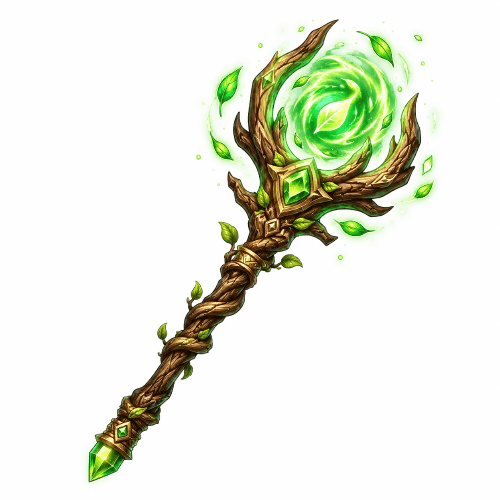
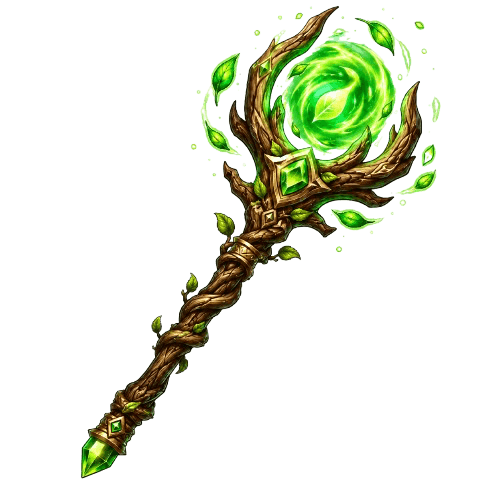
Add files via upload

Changed region(s): [[0.15, 0.0, 0.9, 0.96]]

diff --git a/Awakening_Lobby/doll.html b/Awakening_Lobby/doll.html
@@ -37,13 +37,13 @@
         }
 
         /* 📍 7 大神裝在角色圖上的「精準定位掛鉤」 */
-        #equip_badge    { top: 22%; left: 18%; width: 20%; } 
+        #equip_badge    { top: 22%; left: 18%; width: 15%; } 
         #equip_shield   { top: 38%; right: 5%; width: 32%; }  
-        #equip_backpack { top: 30%; left: -5%; width: 35%; z-index: 0; } 
+        #equip_backpack { top: 30%; left: -5%; width: 30%; z-index: 0; } 
         #equip_map      { bottom: 5%; left: 8%; width: 28%; }  
         #equip_staff    { top: 15%; right: -8%; width: 40%; } 
-        #equip_eye      { top: 8%; left: 25%; width: 18%; }   
-        #equip_chest    { bottom: -5%; right: 10%; width: 35%; }
+        #equip_eye      { top: 8%; left: -20%; width: 18%; }   
+        #equip_chest    { bottom: -6%; right: 10%; width: 35%; }
         /* 👆👆👆 貼到這邊結束 👆👆👆 */
 
         .hero-energy-badge { position: absolute; top: 12px; left: 12px; background: rgba(211, 84, 0, 0.9); color: white; padding: 6px 15px; border-radius: 20px; font-size: 14px; font-weight: bold; z-index: 10; border: 2px solid #fdf5e6; box-shadow: 0 2px 6px rgba(0,0,0,0.3); backdrop-filter: blur(2px); }